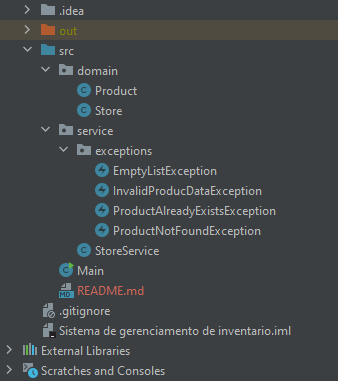
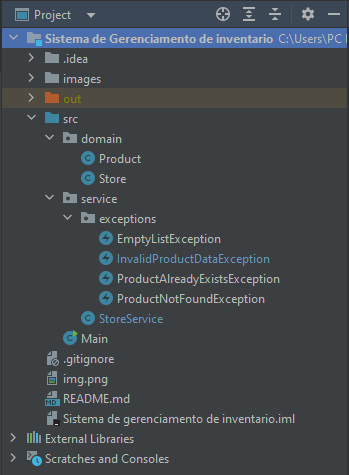
updated README.md

Changed region(s): [[0.0, 0.0, 1.0, 1.0], [0.1183, 0.4042, 0.1479, 0.4331], [0.1183, 0.3176, 0.1479, 0.3465]]

diff --git a/src/service/StoreService.java b/src/service/StoreService.java
@@ -3,7 +3,7 @@ package service;
 import domain.Product;
 import domain.Store;
 import service.exceptions.EmptyListException;
-import service.exceptions.InvalidProducDataException;
+import service.exceptions.InvalidProductDataException;
 import service.exceptions.ProductAlreadyExistsException;
 import service.exceptions.ProductNotFoundException;
 
@@ -20,10 +20,10 @@ public class StoreService {
     public void addProduct(Product product) {
 
         if (isValidateProductName(product.getName())) {
-            throw new InvalidProducDataException("Nome do produto não pode ser nulo ou vazio");
+            throw new InvalidProductDataException("Nome do produto não pode ser nulo ou vazio");
         }
         if (!isValidProductQuantity(product.getQuantity())) {
-            throw new InvalidProducDataException("Quantidade do produto não pode ser nula ou menor que 1");
+            throw new InvalidProductDataException("Quantidade do produto não pode ser nula ou menor que 1");
         }
         if (isProductAlreadyExists(product.getName())) {
             throw new ProductAlreadyExistsException("Produto já existe");
@@ -38,7 +38,7 @@ public class StoreService {
             throw new EmptyListException("Lista de produtos vazia");
         }
         if (isValidateProductName(name)) {
-            throw new InvalidProducDataException("Nome do produto não pode ser nulo ou vazio");
+            throw new InvalidProductDataException("Nome do produto não pode ser nulo ou vazio");
         }
 
         Product productToRemove = null;
@@ -67,7 +67,7 @@ public class StoreService {
     public Product getProductByName(String name) {
 
         if (isValidateProductName(name)) {
-            throw new InvalidProducDataException("Nome do produto não pode ser nulo ou vazio");
+            throw new InvalidProductDataException("Nome do produto não pode ser nulo ou vazio");
         }
         if (isListEmpty()) {
             throw new EmptyListException("Lista de produtos vazia");

diff --git a/src/service/exceptions/InvalidProductDataException.java b/src/service/exceptions/InvalidProductDataException.java
@@ -1,0 +1,10 @@
+package service.exceptions;
+
+public class InvalidProductDataException extends RuntimeException{
+
+    private String message;
+
+    public InvalidProductDataException(String message) {
+        super(message);
+    }
+}

diff --git a/README.md b/README.md
@@ -1,4 +1,4 @@
-# Projeto Prático Tinnova - Sistema de Gerenciamento de inventário
+# Projeto Prático Tinnova - Sistema de Gerenciamento de Inventário
 
 Este projeto foi desenvolvido como parte do processo seletivo da Tinnova. O objetivo é criar um sistema de gerenciamento de inventário, onde é possível cadastrar, atualizar, deletar e listar produtos.
 
@@ -11,7 +11,7 @@ Este projeto foi desenvolvido como parte do processo seletivo da Tinnova. O obje
 
 Para utilizar o projeto é necessário apenas ter o Java 21 instalado na máquina.
 
-# Estrutura do projeto
+## Estrutura do projeto
 
  O projeto está estruturado em camadas, sendo elas: 
  - Domain: Onde contém as entidades do sistema, Store e Product;
@@ -39,3 +39,7 @@ Para rodar o projeto basta executar o arquivo Main.java que está localizado em 
 
 ### Menu rodando
 <img src="images/menu-rodando.png" alt="Print 3" width="300"/>
+
+### Autor
+
+- [LinkedIn](https://www.linkedin.com/in/mateus-fprog/)
